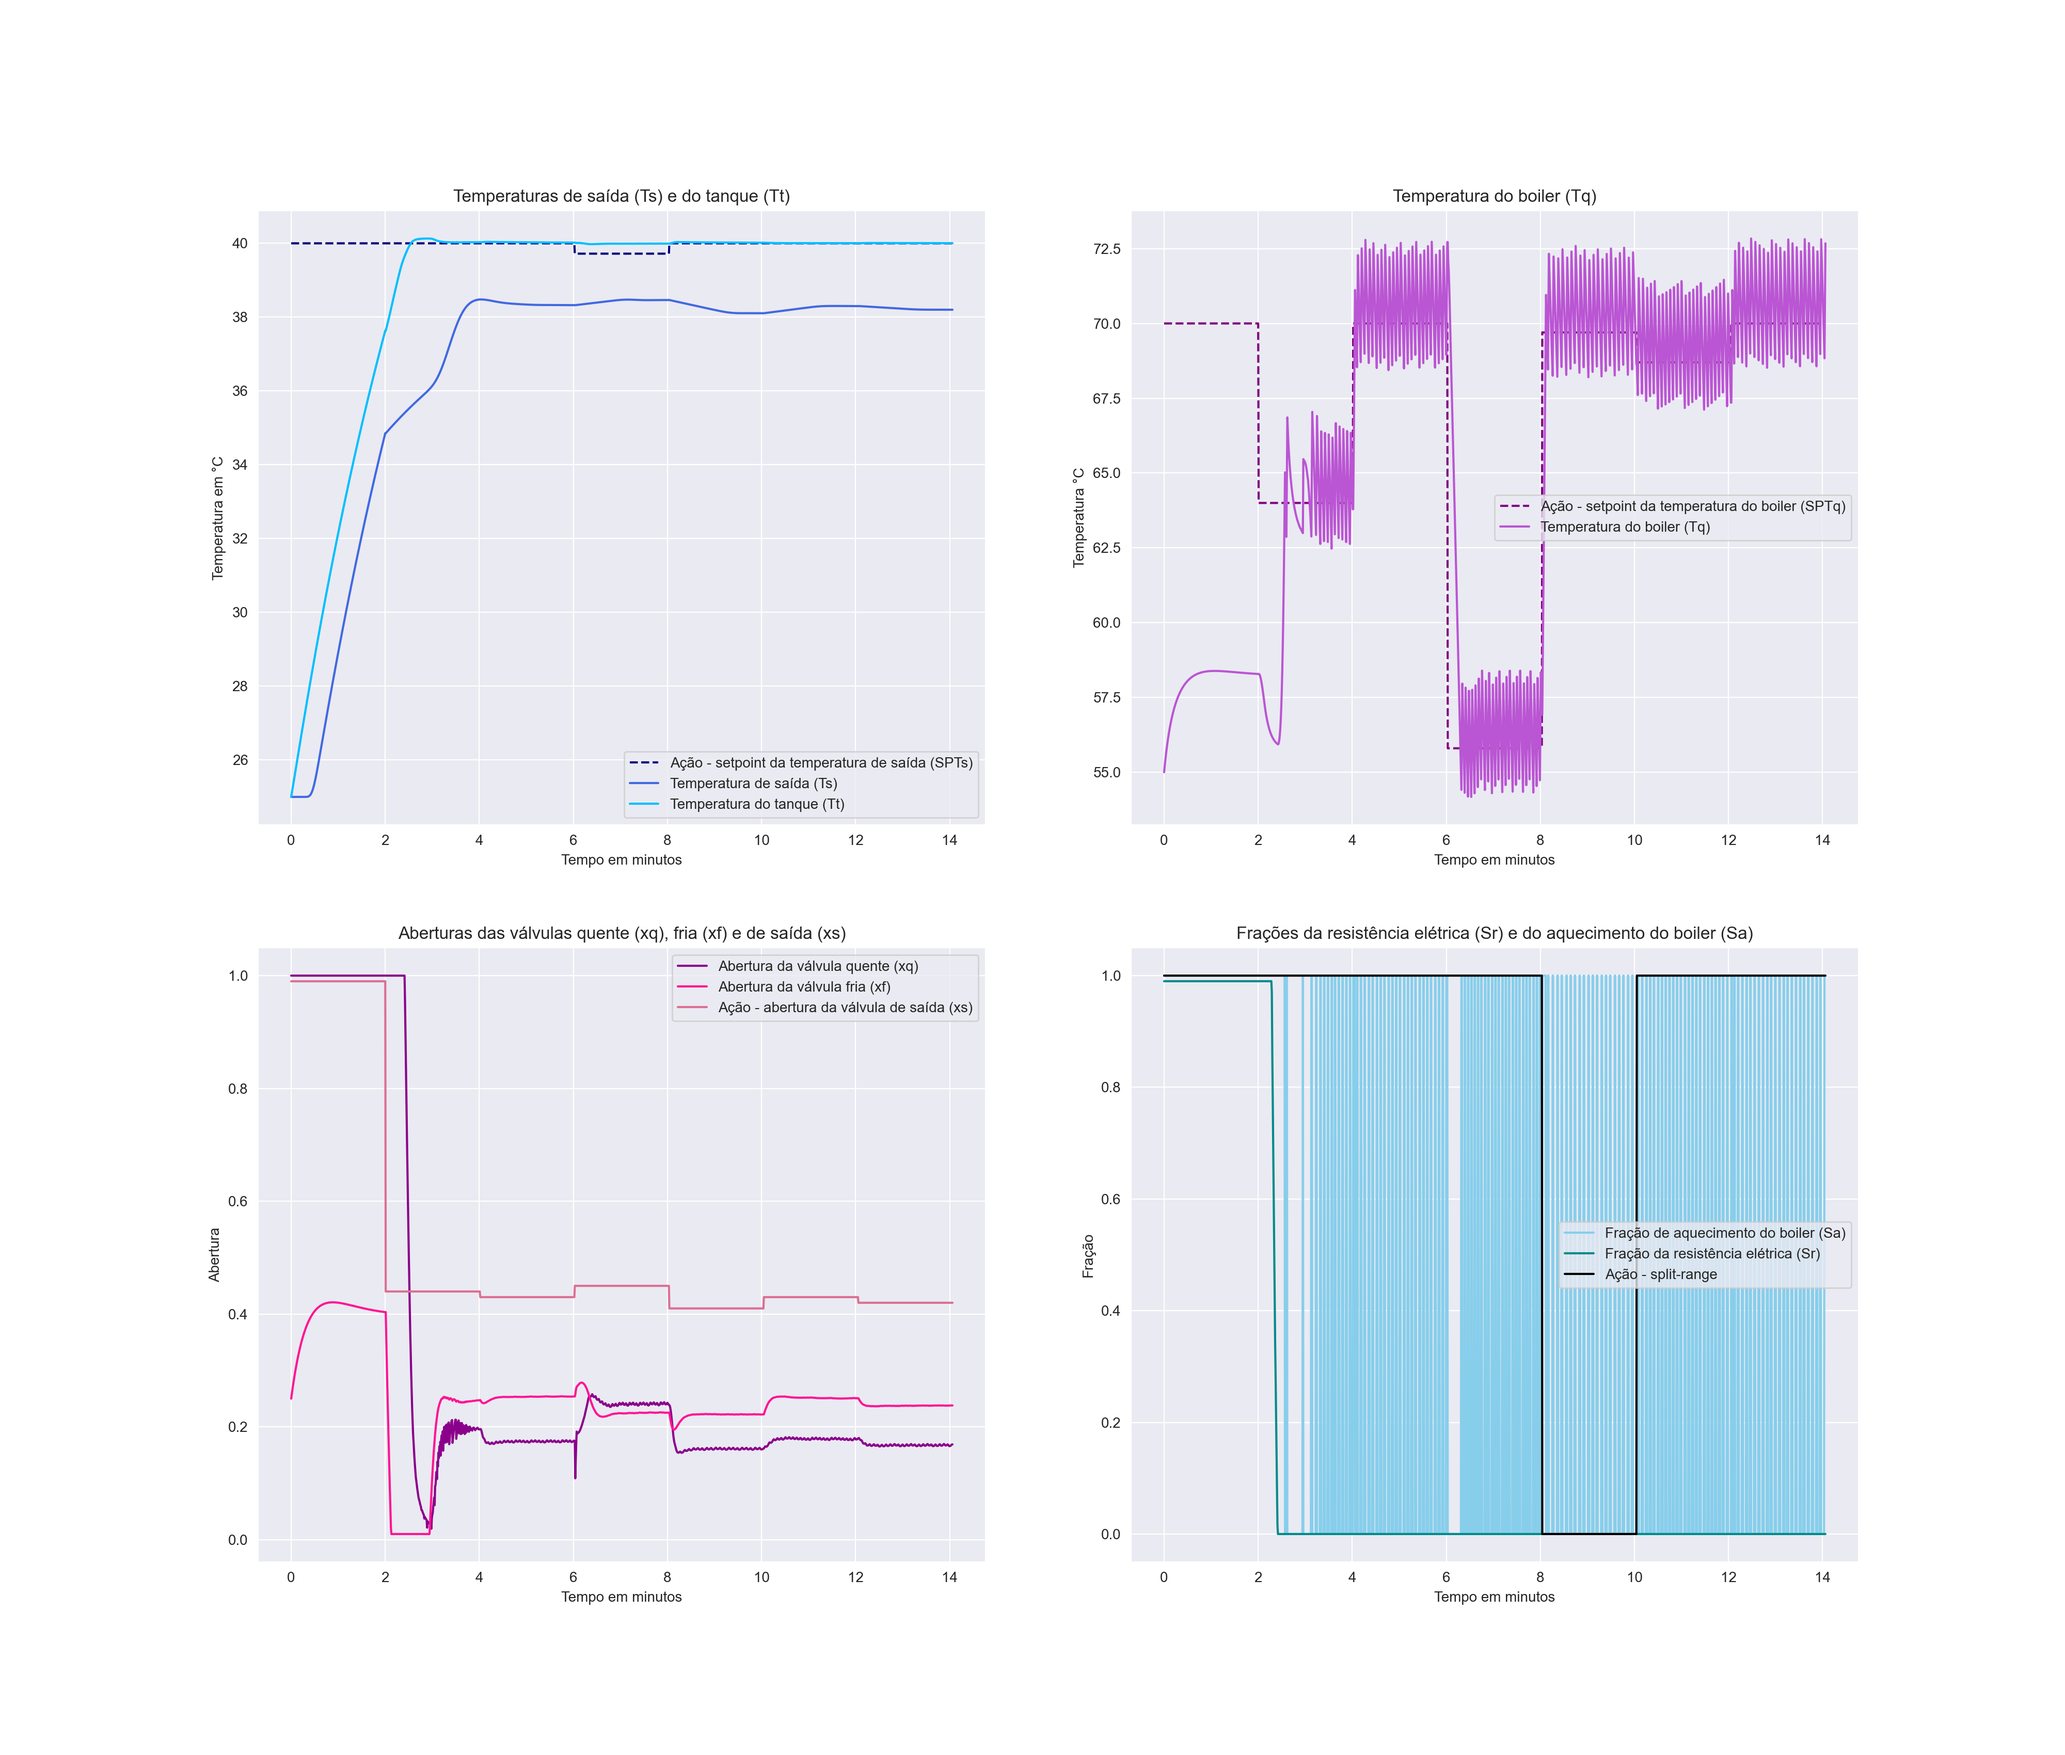
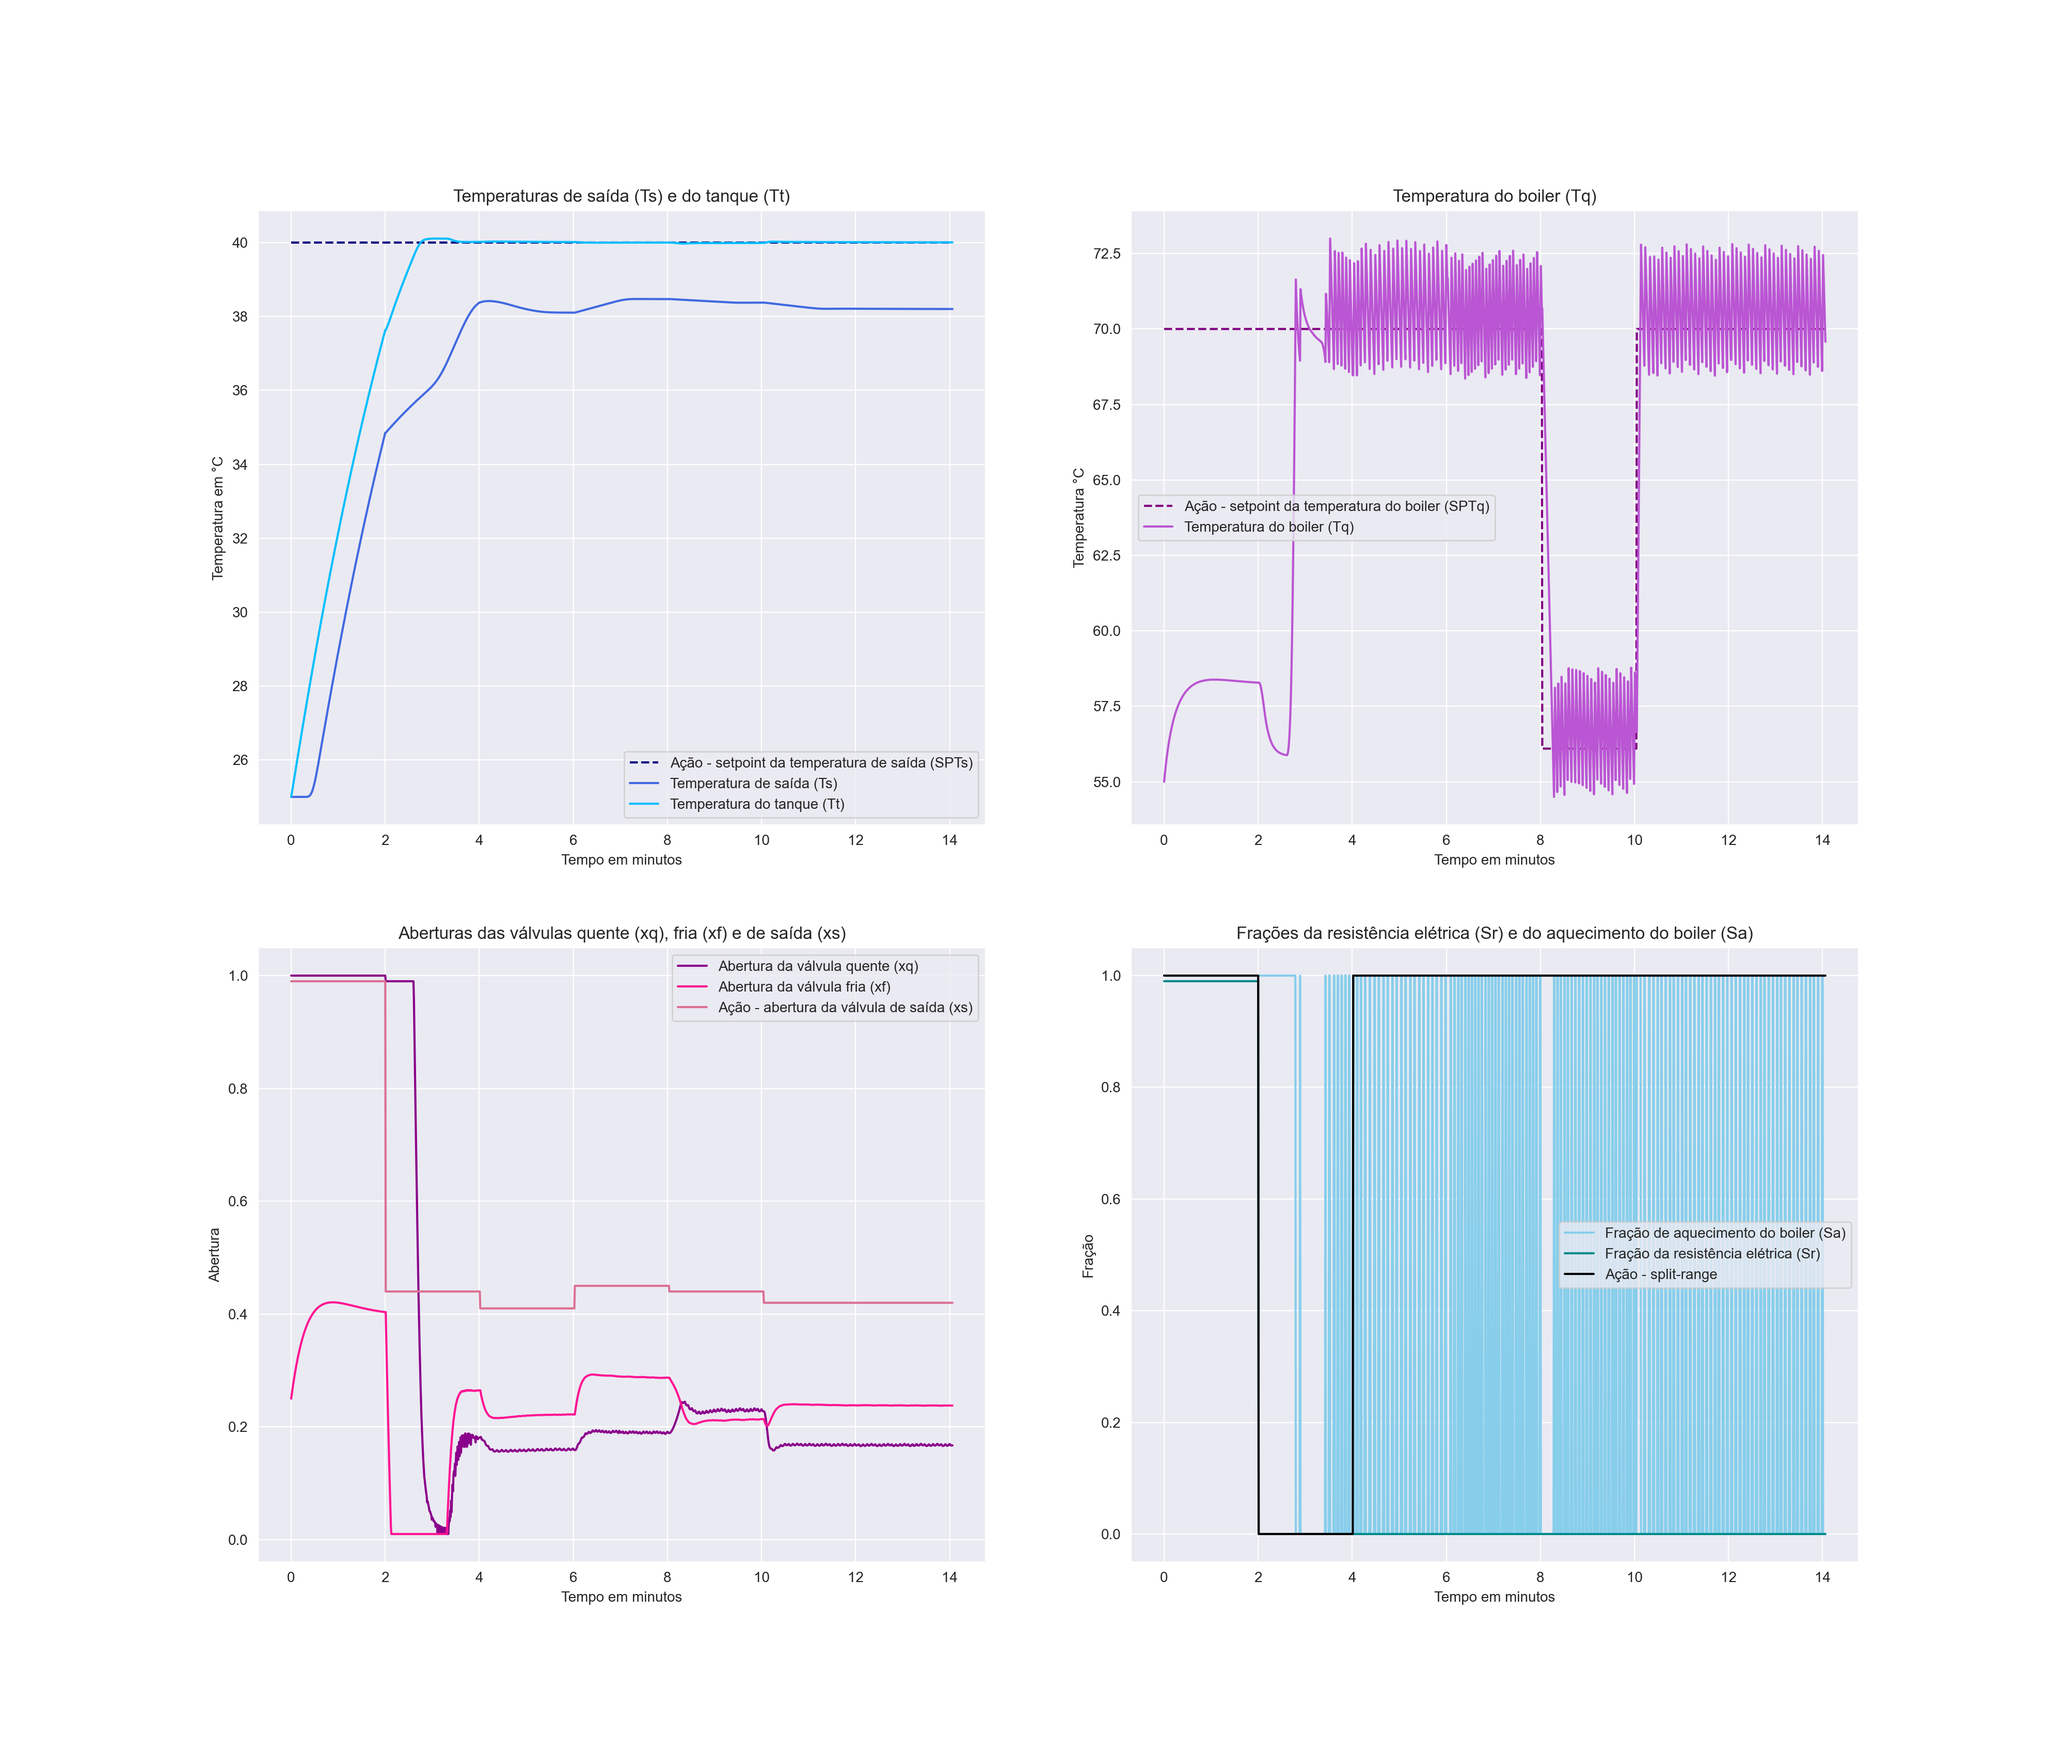
Updates

diff --git a/treina_agente.py b/treina_agente.py
@@ -300,7 +300,7 @@ class ShowerEnv(gym.Env):
 def treina_agente(nome_algoritmo, n_iter_agente, n_iter_checkpoints, Tinf):
 
     # Define o local para salvar o modelo treinado e os checkpoints:
-    path_root_models = "/models/"
+    path_root_models = "/models_Tinf20/"
     path_root = os.getcwd() + path_root_models
     path = path_root + "results_" + nome_algoritmo
 
@@ -354,7 +354,7 @@ def treina_agente(nome_algoritmo, n_iter_agente, n_iter_checkpoints, Tinf):
 def avalia_agente(nome_algoritmo, Tinf):
 
     # Define o local do checkpoint salvo:
-    path_root_models = "/models/"
+    path_root_models = "/models_Tinf20/"
     path_root = os.getcwd() + path_root_models
     path = path_root + "results_" + nome_algoritmo
 
@@ -466,7 +466,7 @@ def avalia_agente(nome_algoritmo, Tinf):
 
     # Gráficos:
     sns.set_style("darkgrid")
-    path_imagens = os.getcwd() + "/imagens/"
+    path_imagens = os.getcwd() + "/imagens_Tinf20/"
 
     fig, ax = plt.subplots(2, 2, figsize=(20, 17))
     ax[0, 0].plot(tempo_total, SPTs, label="Ação - setpoint da temperatura de saída (SPTs)", color="navy", linestyle="dashed")
@@ -550,15 +550,15 @@ ray.shutdown()
 ray.init()
 
 # Define variáveis:
-# nome_algoritmo = "proximal_policy_optimization"
-# n_iter_agente = 101
-# n_iter_checkpoints = 10
-# Tinf = 25
-
-nome_algoritmo = "soft_actor_critic"
-n_iter_agente = 1001
-n_iter_checkpoints = 100
+nome_algoritmo = "proximal_policy_optimization"
+n_iter_agente = 101
+n_iter_checkpoints = 10
 Tinf = 25
+
+# nome_algoritmo = "soft_actor_critic"
+# n_iter_agente = 1001
+# n_iter_checkpoints = 100
+# Tinf = 25
 
 # Treina e avalia o agente:
 treina = True
